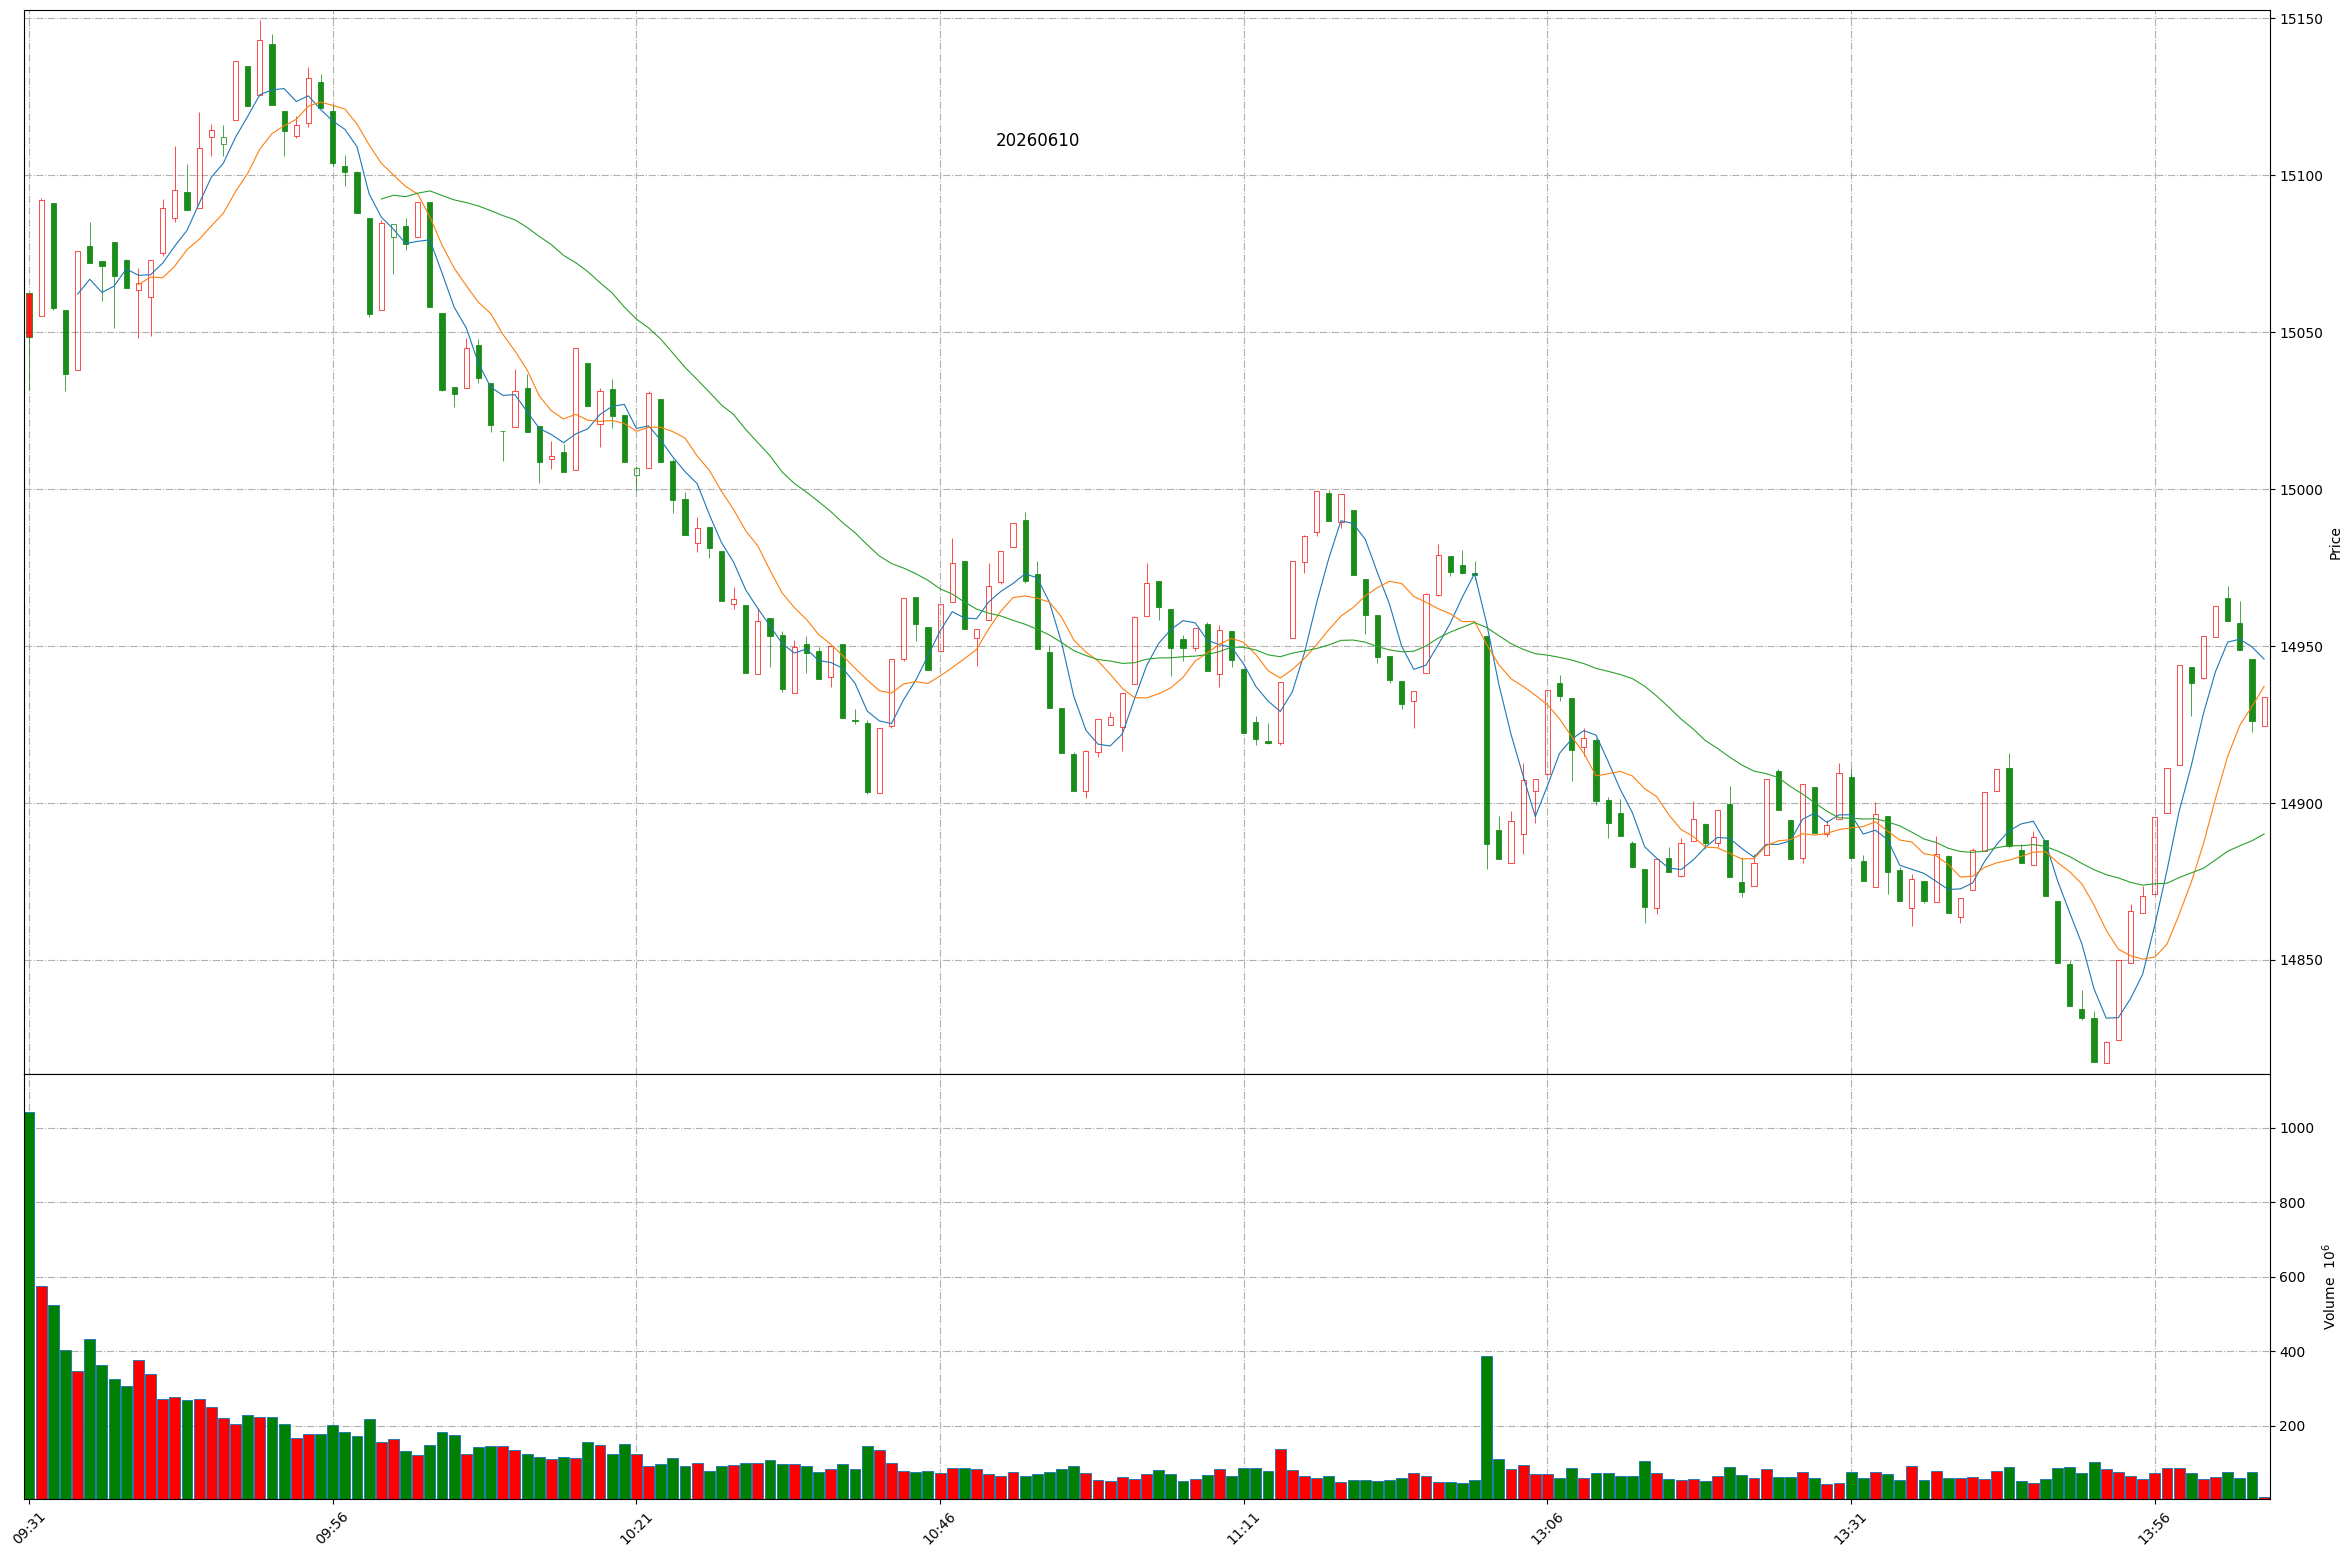
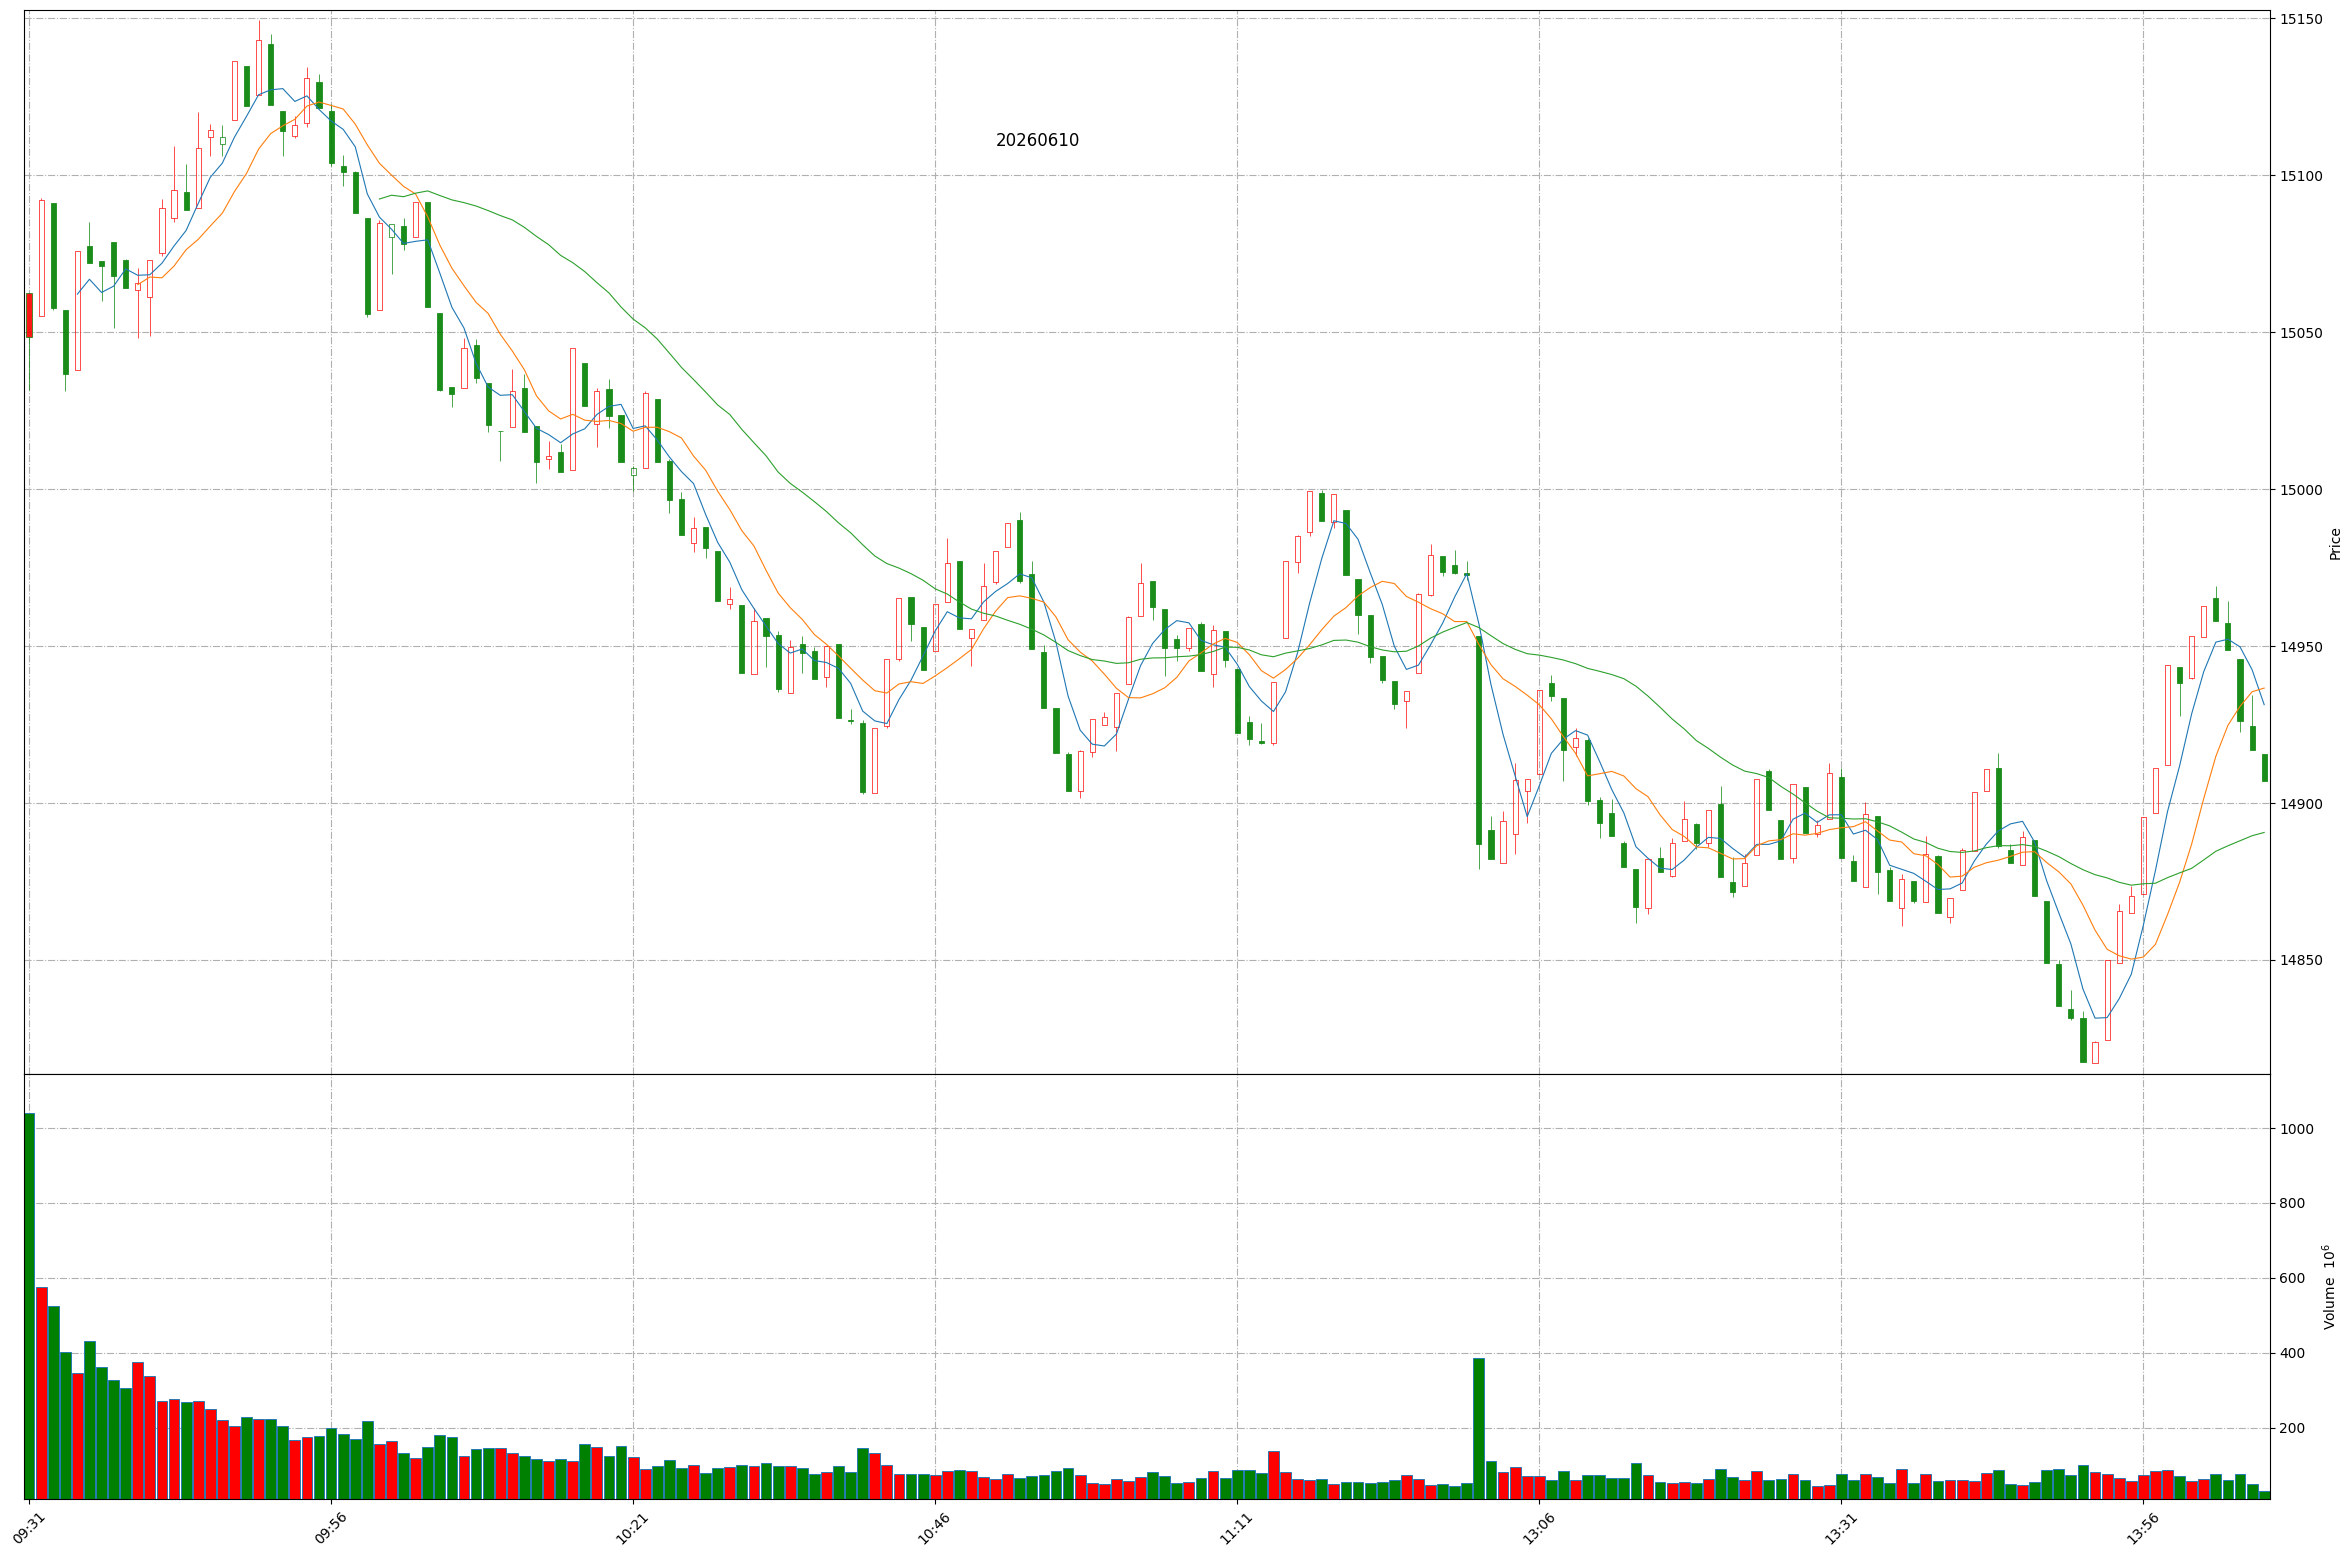
Github action update at 2026-06-10 14:05:54.

diff --git a/README.md b/README.md
@@ -1,11 +1,11 @@
 
 # Daily-A-share-market-quotes 每日 A 股指数（5min 更新）- 20260610
 
-### 上证指数 20260610 14:4
+### 上证指数 20260610 14:5
 ![](./fig/2026/6/20260610-sh000001.png)
 
-### 深证成指 20260610 14:4
+### 深证成指 20260610 14:5
 ![](./fig/2026/6/20260610-sz399001.png)
 
-### 北证50 20260610 14:4
+### 北证50 20260610 14:5
 ![](./fig/2026/6/20260610-bj899050.png)
